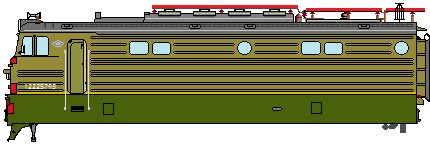
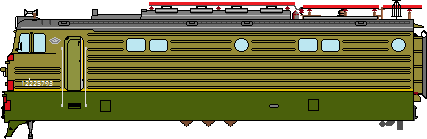
Electric locomotive VL10-1290 has been assembled

diff --git a/test.html b/test.html
@@ -6,8 +6,46 @@
 	<link rel="stylesheet" href="style.css" />
 </head>
 <body>
-	<img src="images/way_and_infrastructure/*" />
+	<div class="VL10">
+		<img class="el_wheels" id="el_wheel_1" src="images/locomotives/electric/el_wheel.png"/>
+		<img class="el_wheels" id="el_wheel_2" src="images/locomotives/electric/el_wheel.png"/>
+		<img class="el_wheels" id="el_wheel_3" src="images/locomotives/electric/el_wheel.png"/>
+		<img class="el_wheels" id="el_wheel_4" src="images/locomotives/electric/el_wheel.png"/>
+		<img class="el_wheels" id="el_wheel_5" src="images/locomotives/electric/el_wheel.png"/>
+		<img class="el_wheels" id="el_wheel_6" src="images/locomotives/electric/el_wheel.png"/>
+		<img class="el_wheels" id="el_wheel_7" src="images/locomotives/electric/el_wheel.png"/>
+		<img class="el_wheels" id="el_wheel_8" src="images/locomotives/electric/el_wheel.png"/>
 
+		<img class="bogie" id="bogie_1" src="images/locomotives/electric/bogie_1.png"/>
+		<img class="bogie" id="bogie_2" src="images/locomotives/electric/bogie_2.png"/>
+		<img class="bogie" id="bogie_3" src="images/locomotives/electric/bogie_2.png"/>
+		<img class="bogie" id="bogie_4" src="images/locomotives/electric/bogie_1.png"/>
+
+		<img class="couple-hitch" id="couple-hitch_1" src="images/locomotives/electric/couple-hitch_1.png"/>
+		<img class="couple-hitch" id="couple-hitch_2" src="images/locomotives/electric/couple-hitch_2.png"/>
+		<img class="couple-hitch" id="couple-hitch_3" src="images/locomotives/electric/couple-hitch_1.png"/>
+		<img class="couple-hitch" id="couple-hitch_4" src="images/locomotives/electric/couple-hitch_2.png"/>
+
+		<img id="brake-main-hose" src="images/locomotives/electric/brake-main-hose.png"/>
+		<img id="feedair-main-hose" src="images/locomotives/electric/feedair-main-hose.png"/>
+
+		<img id="body_1" src="images/locomotives/electric/loco_body/VL10_1290/body_1.png" />
+		<img class="pantograph" id="pant_2" src="images/locomotives/electric/pant/pant_2.png"/>
+		<img id="body_2" src="images/locomotives/electric/loco_body/VL10_1290/body_2.png" />
+
+		<img id="door_1" src="images/locomotives/electric/loco_body/VL10_1290/door.png" />
+		<img id="door_2" src="images/locomotives/electric/loco_body/VL10_1290/door.png" />	
+
+		<img class="pantograph" id="pant_1" src="images/locomotives/electric/pant/pant_2.png"/>
+
+		<img id="bus-type-shunt" src="images/locomotives/electric/bus-type-shunt.png"/>
+		<img id="pantograph-air-main" src="images/locomotives/electric/pantograph-air-main.png"/>
+		<img id="brake-line" src="images/locomotives/electric/brake-line.png"/>
+	</div>
+
+	<div class="first-way">
+		<img id="railway" src="images/way_and_infrastructure/railway.png"/>
+	</div>
 
 	<script defer src="jquery-3.4.1.min.js"></script>
 	<script defer src="code.js"></script>

diff --git a/style.css b/style.css
@@ -2,4 +2,174 @@ html, body {
 	background-color: #ADD8E6;
 	margin: 0;
 	padding: 0;
+	overflow: hidden;
+}
+
+* {
+	position: fixed;
+}
+
+.VL10 {
+	top: 220px;
+	left: 400px;
+}
+
+.el_wheels {
+	margin-top: 114px;
+}
+
+#el_wheel_1 {
+	margin-left: 57px;
+}
+
+#el_wheel_2 {
+	margin-left: 124px;
+}
+
+#el_wheel_3 {
+	margin-left: 267px;
+}
+
+#el_wheel_4 {
+	margin-left: 334px;
+}
+
+#el_wheel_5 {
+	margin-left: 494px;
+}
+
+#el_wheel_6 {
+	margin-left: 561px;
+}
+
+#el_wheel_7 {
+	margin-left: 701px;
+}
+
+#el_wheel_8 {
+	margin-left: 768px;
+}
+
+.bogie {
+	margin-top: 119px;
+}
+
+#bogie_1 {
+	margin-left: 35px;	
+}
+
+#bogie_2 {
+	margin-left: 245px;	
+}
+
+#bogie_3 {
+	transform: scale(-1, 1);
+	margin-left: 473px;	
+}
+
+#bogie_4 {
+	transform: scale(-1, 1);
+	margin-left: 680px;	
+}
+
+.couple-hitch {
+	margin-top: 107px;
+}
+
+#couple-hitch_1 {
+	margin-left: -18px;
+}
+
+#couple-hitch_2 {
+	margin-left: 402px;
+}
+
+#couple-hitch_3 {
+	margin-left: 419px;
+}
+
+#couple-hitch_4 {
+	margin-left: 838px;
+}
+
+
+#brake-main-hose {
+	margin-top: 117px;
+	margin-left: -3px;
+}
+
+#feedair-main-hose {
+	margin-top: 117px;
+	margin-left: 845px;
+}
+
+
+#body_2 {
+	margin-top: 2px;
+	margin-left: 427px;
+}
+
+#door_1 {
+	margin-left: 63px;
+	margin-top: 35px;
+}
+
+#door_2 {
+	transform: scale(-1, 1);
+	margin-left: 769px;
+	margin-top: 35px;
+}
+
+.bogie {
+	margin-top: 119px;
+}
+
+#bogie_1 {
+	margin-left: 35px;	
+}
+
+#bogie_2 {
+	margin-left: 245px;	
+}
+
+#bogie_3 {
+	transform: scale(-1, 1);
+	margin-left: 473px;	
+}
+
+#bogie_4 {
+	transform: scale(-1, 1);
+	margin-left: 680px;	
+}
+
+.pantograph {
+	margin-top: -53px;
+}
+
+#pant_1 {
+	margin-left: 80px;
+}
+
+#pant_2 {
+	margin-left: 695px;
+}
+
+#bus-type-shunt {
+	margin-left: 421px;
+	margin-top: 7px;
+}
+
+#pantograph-air-main {
+	margin-left: 412px;
+	margin-top: 31px;
+}
+
+#brake-line {
+	margin-left: 413px;
+	margin-top: 91px;
+}
+
+
+#railway {
+	margin-top: 361px;
 }
